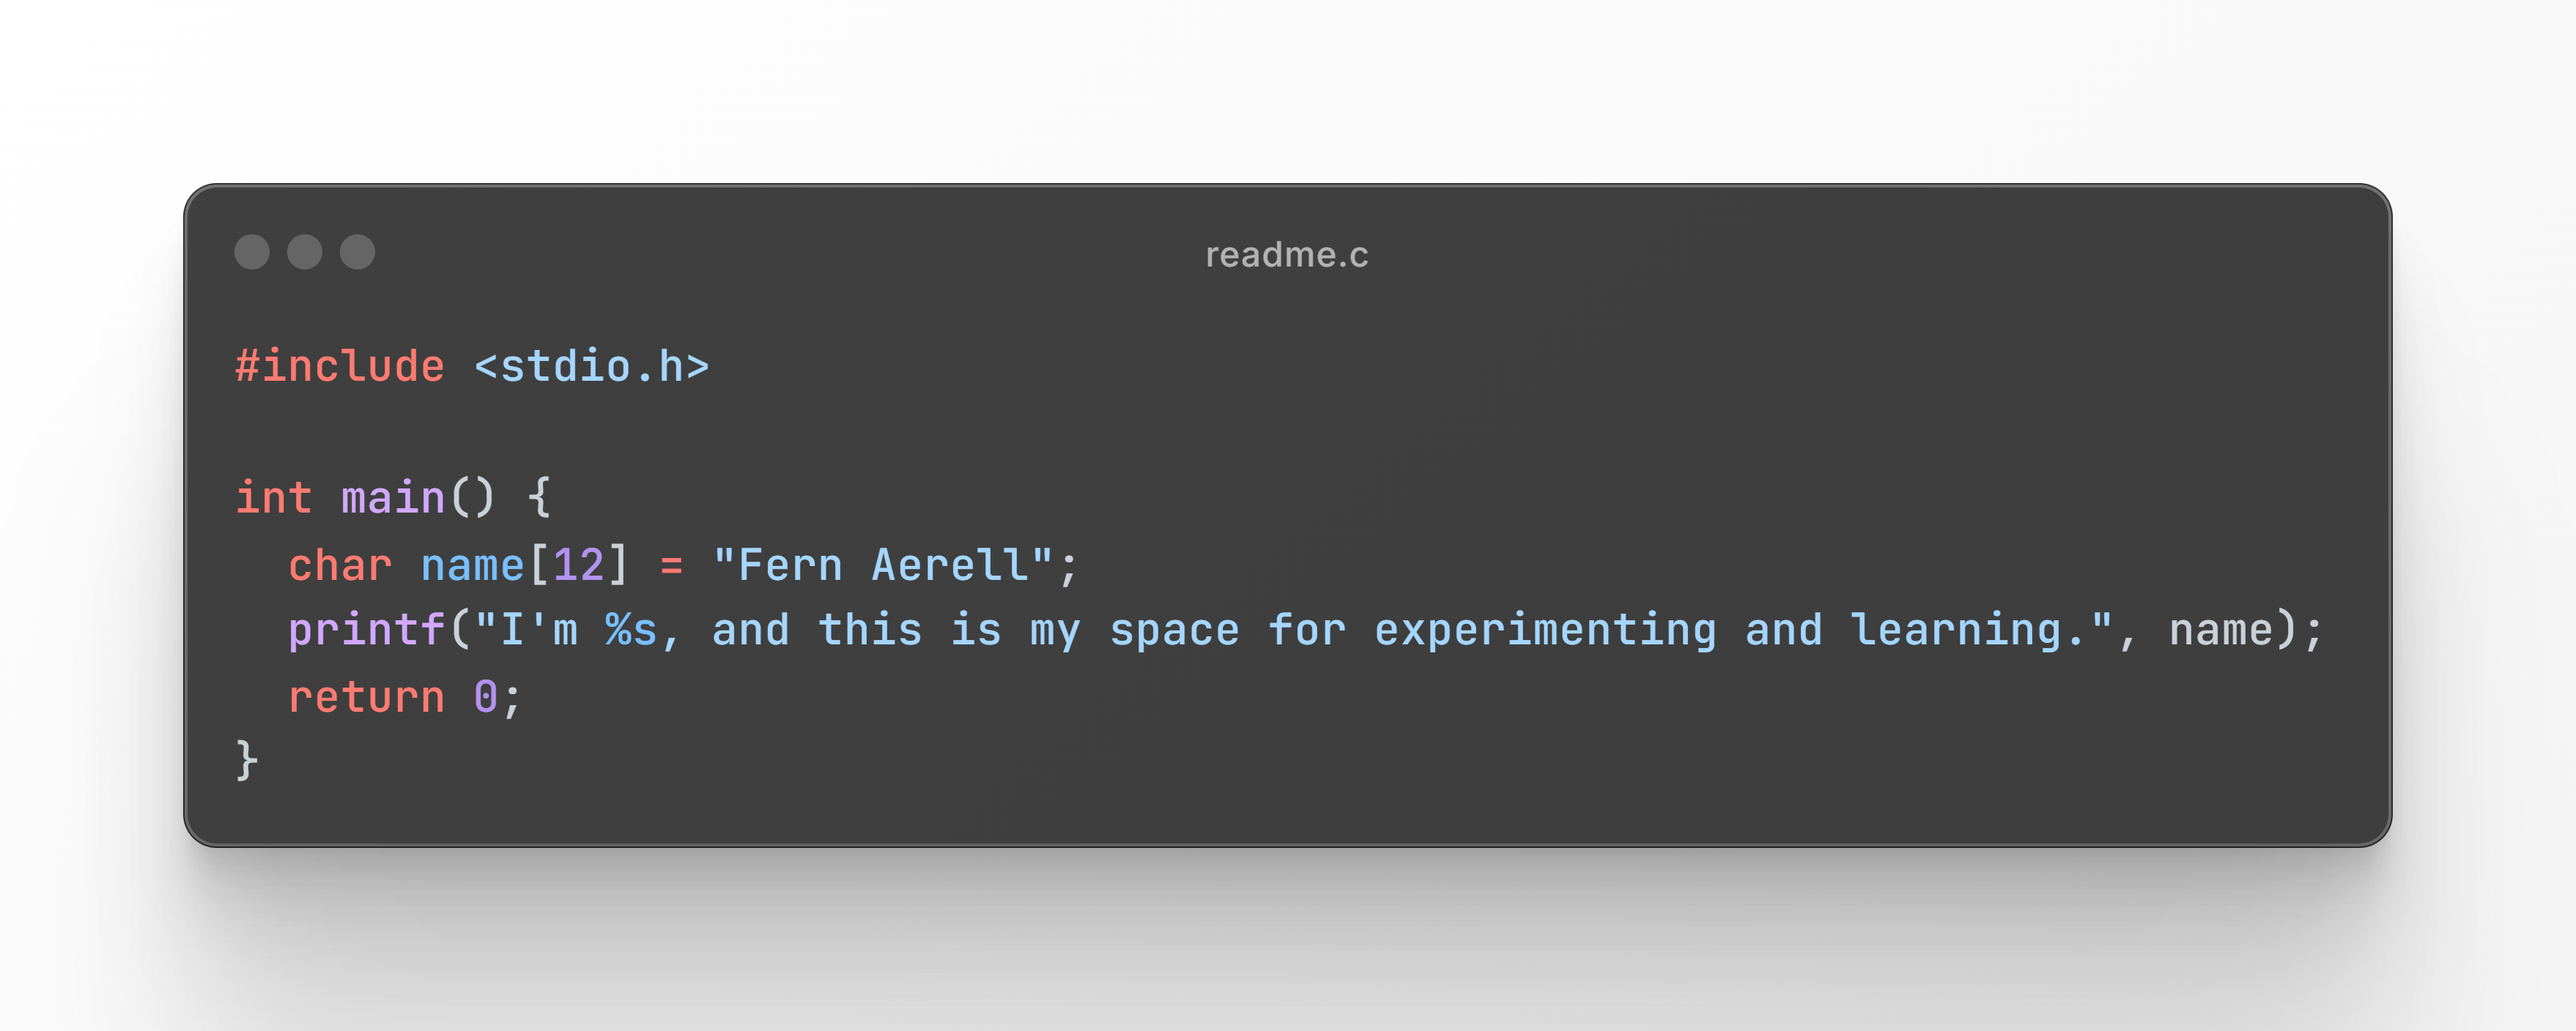
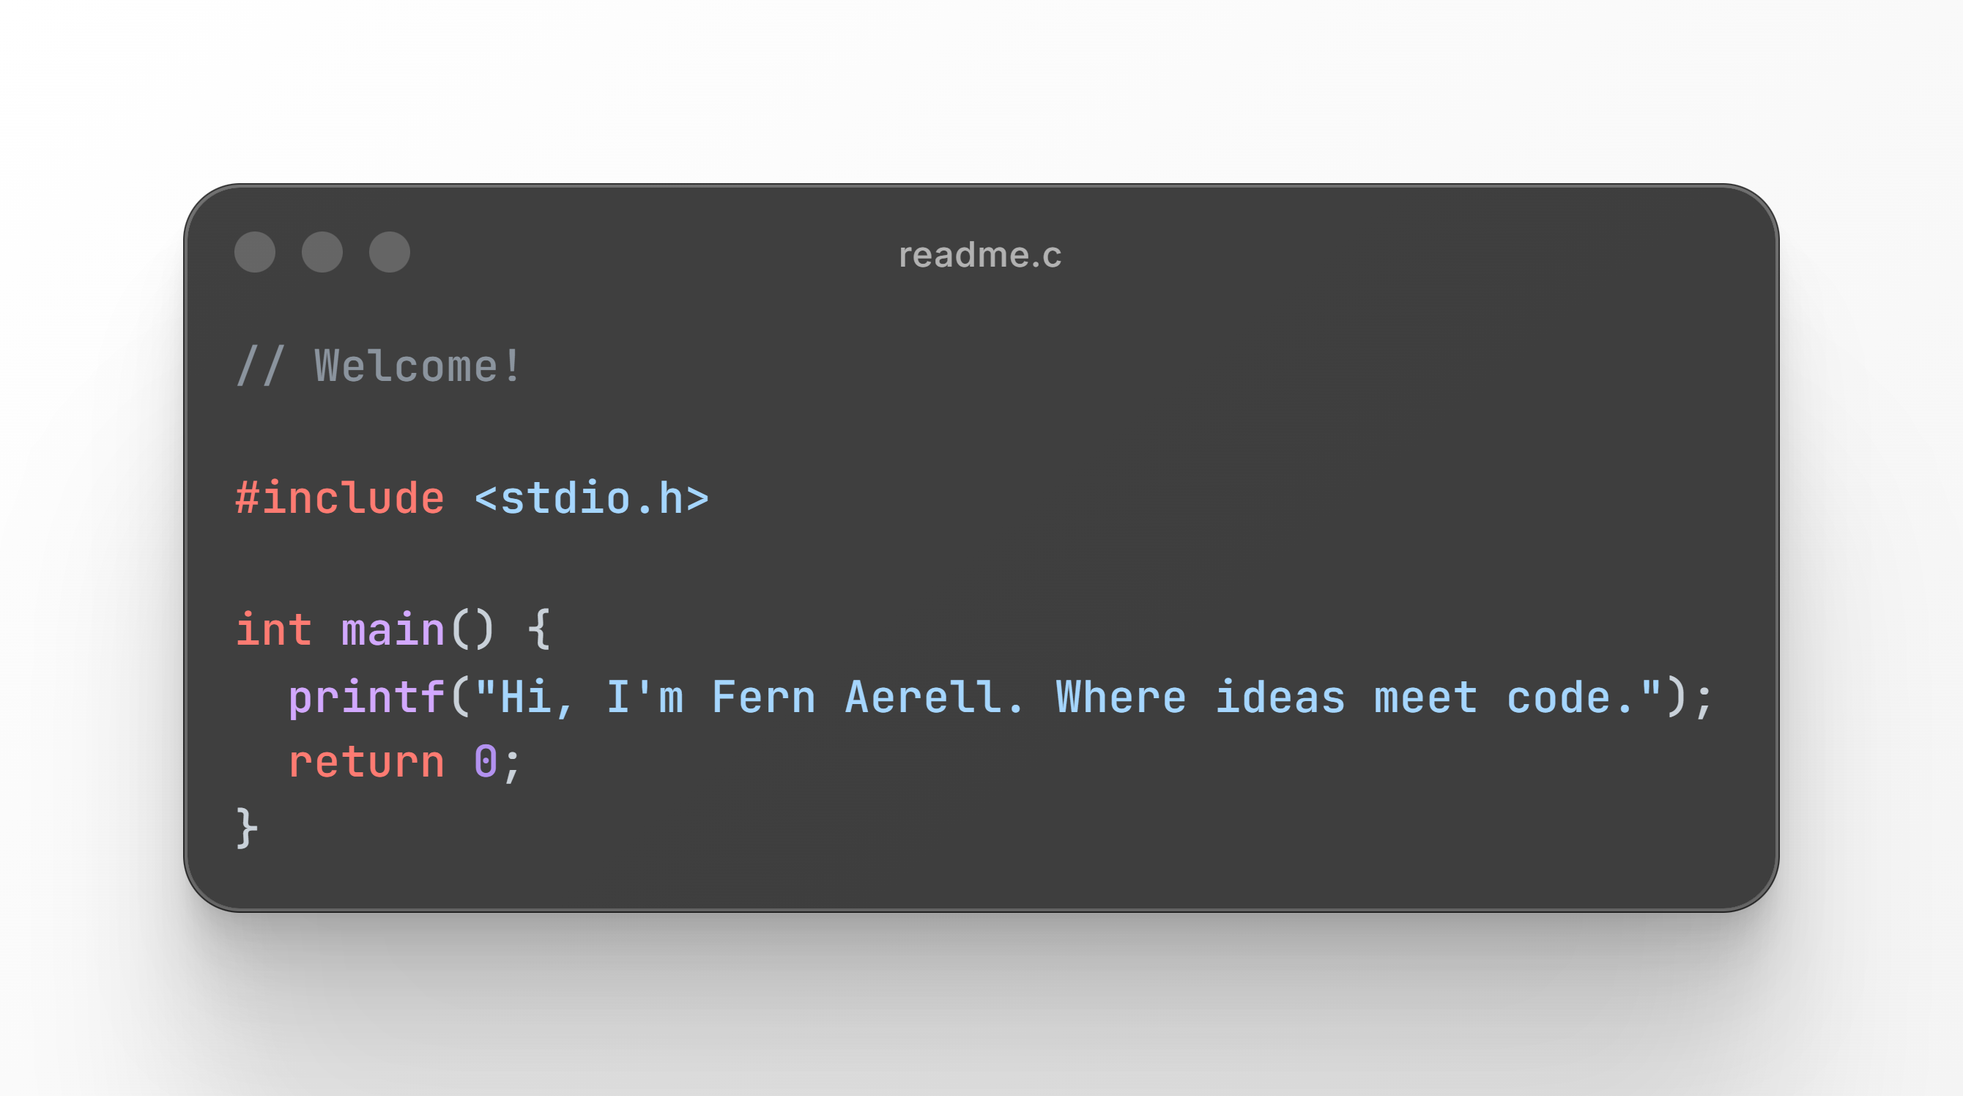
docs: Change the README.md main image

Changed region(s): [[0.0619, 0.1562, 0.9291, 0.875], [0.4646, 0.2188, 0.5575, 0.2812]]

diff --git a/README.md b/README.md
@@ -1,1 +1,1 @@
-![whithub.readme.arl.png](whithub.readme.arl.png)
+![whithub.readme.c.png](whithub.readme.c.png)
